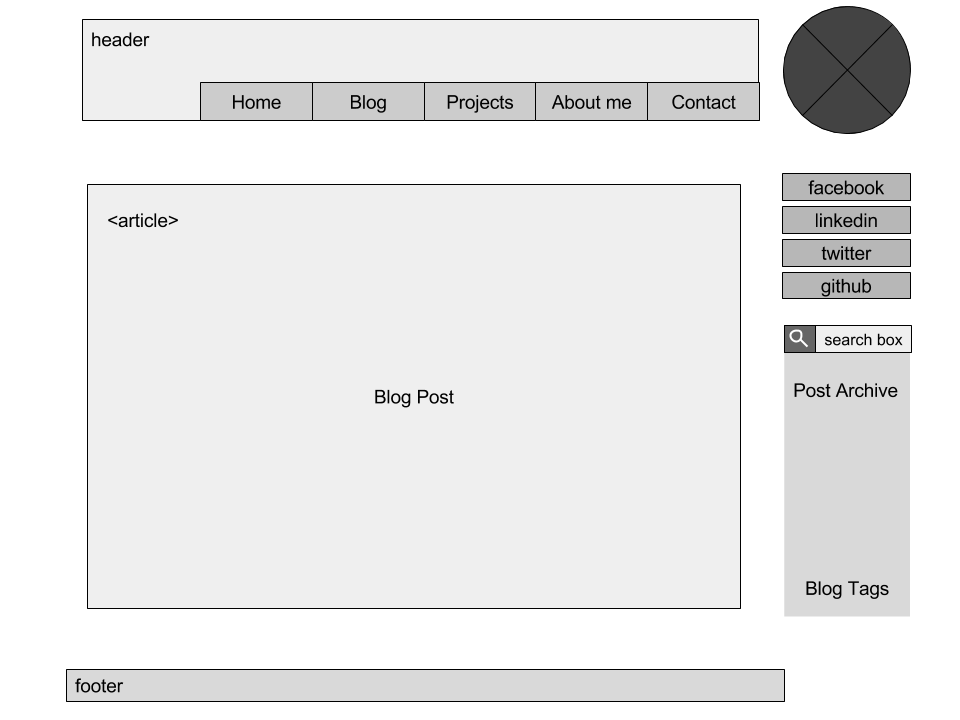
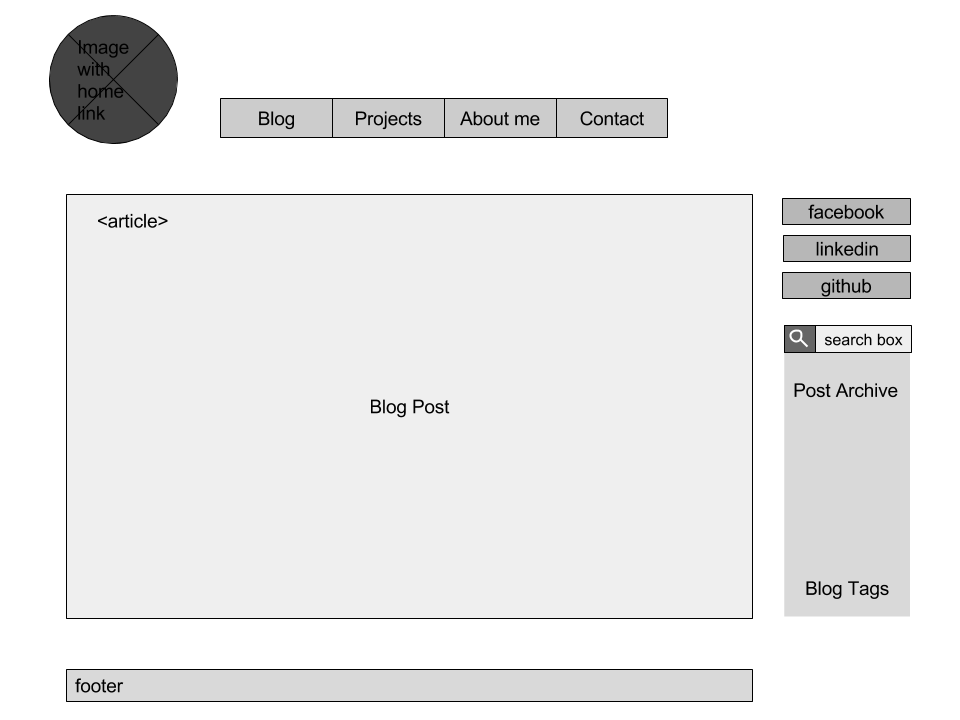
Add blog wireframe updated image and file

diff --git a/blog/blog-template.html b/blog/blog-template.html
@@ -7,7 +7,6 @@
   <header>
       <nav>
         <ul>
-          <li><a href=”#”>Home</a></li>
           <li><a href=”#”>Blog</a></li>
           <li><a href=”#”>Projects</a></li>
           <li><a href=”#”>About Me</a></li>
@@ -15,13 +14,14 @@
         </ul>
       </nav>
   </header>
-  <img src=”#” alt=”Profile Image” />
+  <a href="#">
+    <img src="#" alt="Profile Image">
+  </a>
   <article><h2>Blog Post</h2><p>Blog Text</p></article>
   <aside>
       <ul>
         <li><a href=”#”>Facebook</a></li>
         <li><a href=”#”>Linkedin</a></li>
-        <li><a href=”#”>Twitter</a></li>
         <li><a href=”#”>Github</a></li>
       </ul>
       <div>
